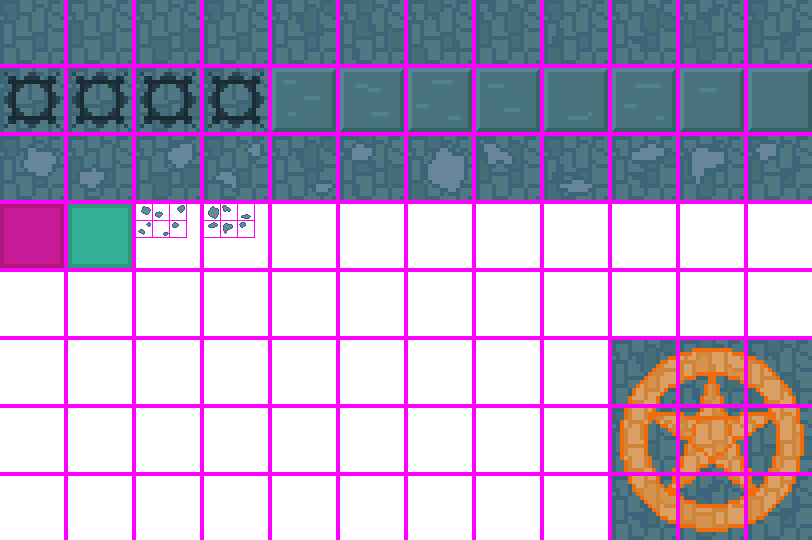
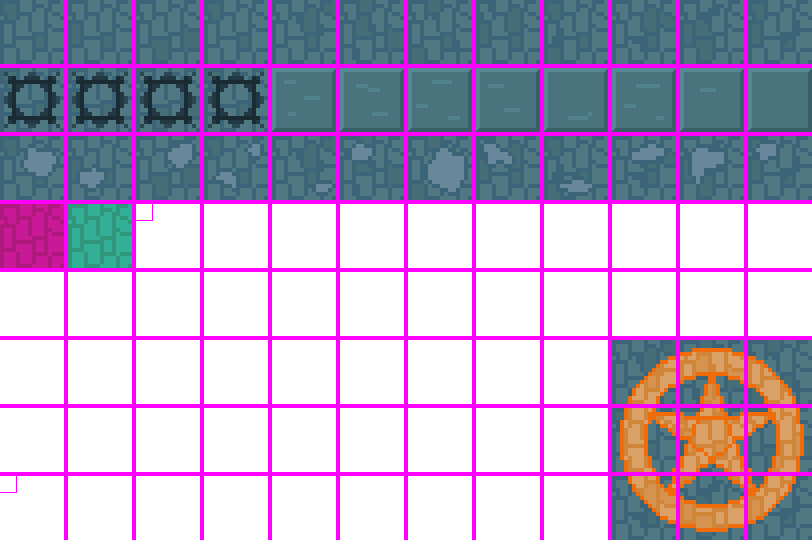
shadows

Changed region(s): [[0.0, 0.3556, 0.3079, 0.5037]]

diff --git a/app/src/gameplay/shadowsCalculator.js b/app/src/gameplay/shadowsCalculator.js
@@ -1,0 +1,88 @@
+const ShadowsCalculator = {
+
+    MAX_DEPTH : 13,
+
+    _getShadowHolder(){
+        return {
+            tiles: [],  
+
+            /**
+             * Tries to add a new tile to th tile list.
+             * Returns true if the tile is succesfully added or 
+             * a depth value of an existing one gets updated.
+             * False otherwise.
+             * @param {*} x - x location of the tile
+             * @param {*} y - y location of the tile
+             * @param {*} depth - tile's depth from the origin point
+             */
+            put(x, y, depth){
+                var rs = this.tiles.filter(e => e.x == x).filter(e => e.y == y);
+                if(rs.length == 0){
+                    this.tiles.push({x: x, y: y, depth: depth});
+                    return true;
+                } else if(rs[0].depth > depth) {
+                    rs[0].depth = depth;
+                    return true;
+                } else {
+                    return false;
+                }
+            },
+
+            /**
+             * Returns the depth value of a tile.
+             * If no such tile found, defaults to MAX_DEPTH.
+             * @param {*} x - x location of the tile
+             * @param {*} y - y location of the tile
+             */
+            get(x, y){
+                var rs = this.tiles.filter(e => e.x == x).filter(e => e.y == y);
+                if(rs.length == 0){
+                    return this.MAX_DEPTH;
+                } 
+                return rs[0].depth;
+            }
+        };
+    },
+
+
+    /**
+     * @param {*} p - player character reference
+     * @param {*} cm - collision map reference
+     */
+    calculate(p, cm){
+        var sh = this._getShadowHolder();
+        this.depthSearch(Math.round(p.x), Math.round(p.y), 1, sh, cm);
+        return sh;
+    },
+
+
+    /**
+     * @param {*} x - x location of the tile
+     * @param {*} y - y location of the tile
+     * @param {*} depth - tile's depth from the origin point
+     * @param {*} sh - shadow holder object
+     * @param {*} cm - collision map reference
+     */
+    depthSearch(x, y, depth, sh, cm){
+        if(depth > this.MAX_DEPTH){
+            return;
+        } else if(!sh.put(x, y, depth)){
+            return;
+        } else if(cm[x][y] == 0){
+            depth += 1;
+        } else {
+            depth += 5;
+        }
+        this.depthSearch(x + 1, y, depth, sh, cm);
+        this.depthSearch(x - 1, y, depth, sh, cm);
+        this.depthSearch(x, y + 1, depth, sh, cm);
+        this.depthSearch(x, y - 1, depth, sh, cm);
+    }
+
+
+
+
+
+
+
+}

diff --git a/app/src/canvasManager/stagePainter.js b/app/src/canvasManager/stagePainter.js
@@ -49,6 +49,7 @@ const StagePainter = {
         StagePainter.drawMonsters(c);
         StagePainter.drawPlayer(c);
         StagePainter.drawProjectiles(c);
+        StagePainter.drawShadows(c);
         StagePainter.clearUnuseableArea(c);
     },
 
@@ -132,7 +133,30 @@ const StagePainter = {
             CanvasManager.paintRotatedImageAt(ImageLoader.projectiles, e.tileX, e.tileY, c.unit,
                 (e.x - c.xMin), (e.y - c.yMin), c.vOffset, c.hOffset, e.direction, e.displaySize);
         });
+    },
+
+    drawShadows(c){
+        var player = StageManager.currentStage.player;
+        var collisionMap = StageManager.currentStage.collisionMap;
+        var shadowsHolder = ShadowsCalculator.calculate(player, collisionMap);
+
+        // c.ctx.fillStyle = '#000000';
+
+        for(var x = Math.floor(c.xMin); x <= Math.ceil(c.xMax); x++){
+            for(var y = Math.floor(c.yMin); y <= Math.ceil(c.yMax); y++){ 
+                var dx = x - c.xMin;
+                var dy = y - c.yMin;
+                // var dx = (x - c.xMin - 0.5) * c.unit + c.vOffset;
+                // var dy = (y - c.yMin - 0.5) * c.unit + c.hOffset;
+                var opacity = shadowsHolder.get(x, y)/ShadowsCalculator.MAX_DEPTH;
+                // c.ctx.globalAlpha = opacity;
+                // c.ctx.fillRect(dx + 1, dy + 1, c.unit - 2, c.unit - 2);
+                // opacity = opacity > 0.85 ? opacity : 0.85;
+                CanvasManager.paintImageAt(ImageLoader.misc, 3, 0, c.unit,
+                   dx, dy, c.vOffset, c.hOffset, 1, opacity); 
+            }
+        }
+
+        // c.ctx.globalAlpha = 1;
     }
-
-
 }

diff --git a/app/src/guiLoader/hudManager.js b/app/src/guiLoader/hudManager.js
@@ -66,19 +66,19 @@ const HudManager = {
         if(p.currentRedEnergy > dv.redEnergy){
             dv.redEnergy++;
         } else {
-            dv.redEnergy = p.currentRedEnergy
+            dv.redEnergy = Math.floor(p.currentRedEnergy);
         }
         $('.hud-value-span.red').html(dv.redEnergy);
         if(p.currentYellowEnergy > dv.yellowEnergy){
             dv.yellowEnergy++;
         } else {
-            dv.yellowEnergy = p.currentYellowEnergy
+            dv.yellowEnergy = Math.floor(p.currentYellowEnergy);
         }
         $('.hud-value-span.yellow').html(dv.yellowEnergy);
         if(p.currentBlueEnergy > dv.blueEnergy){
             dv.blueEnergy++;
         } else {
-            dv.blueEnergy = p.currentBlueEnergy
+            dv.blueEnergy = Math.floor(p.currentBlueEnergy);
         }
         $('.hud-value-span.blue').html(dv.blueEnergy);
     },

diff --git a/app/index.html b/app/index.html
@@ -36,6 +36,7 @@
 	<script src="src/canvasManager/imageLoader.js"></script>
 	<script src="src/canvasManager/canvasManager.js"></script>
 	<script src="src/canvasManager/stagePainter.js"></script>
+	<script src="src/gameplay/shadowsCalculator.js"></script>
 	<!-- AUDIO -->
 	<script src="src/audioManager/audioWrapper.js"></script>
 	<script src="src/audioManager/audioRegistry.js"></script>
